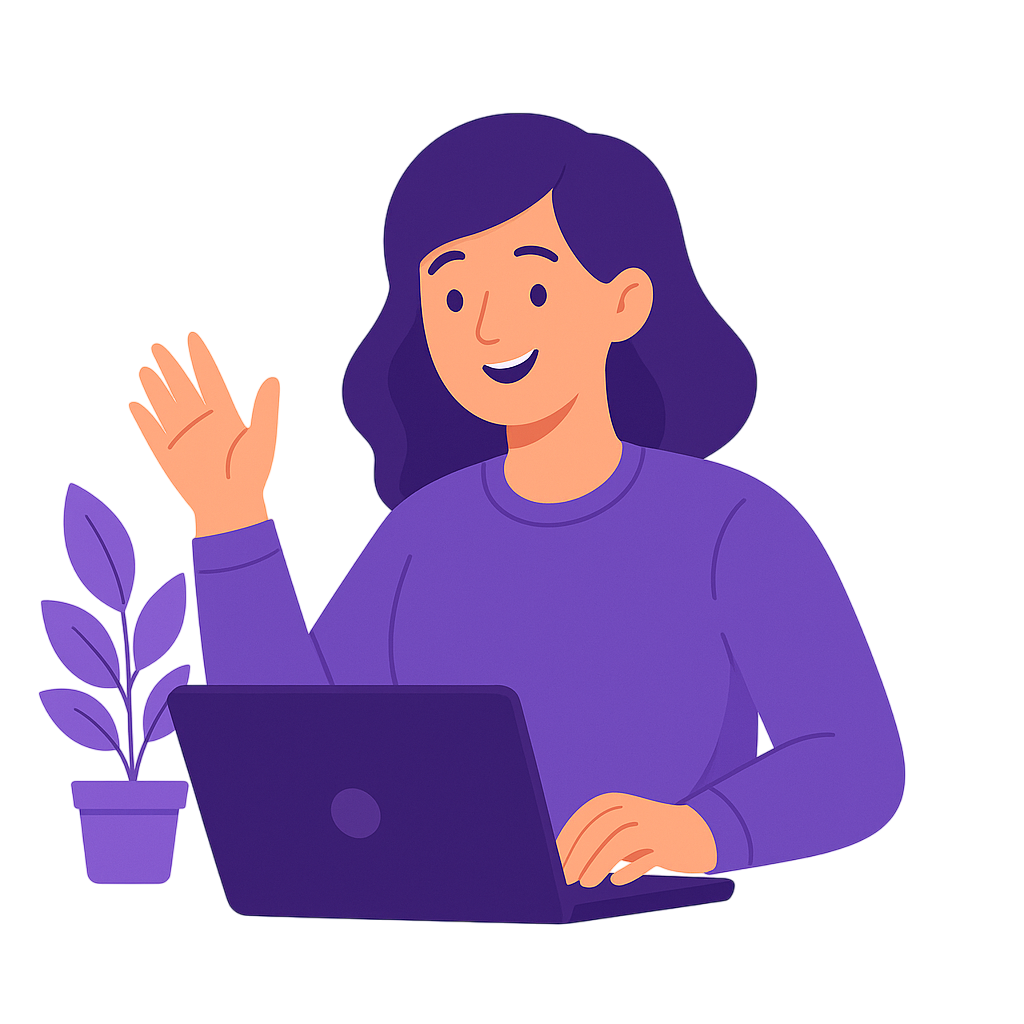
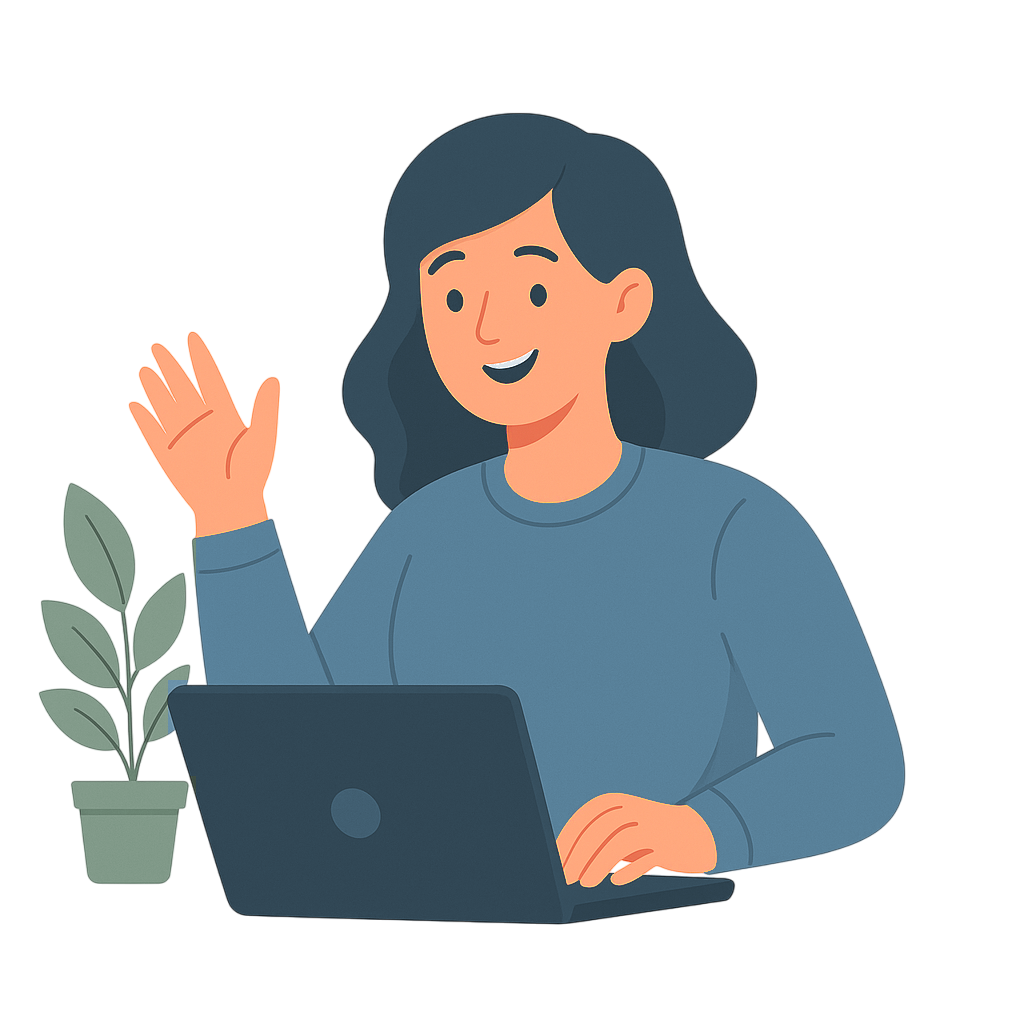
feat(brand): apply new Diariamente identity to landing
Replace the otter logo with the new horizontal logo and symbol, swap
favicon, apple-touch-icon and og.png, move the palette from lilac and
violet to ink, sun, cream, sage, slate and clay, recolor the patient
illustration and rename DiariaMente to Diariamente.

diff --git a/src/styles/global.css b/src/styles/global.css
@@ -4,15 +4,19 @@
   --font-display: "Fraunces Variable", Georgia, serif;
   --font-sans: "Quicksand Variable", system-ui, sans-serif;
 
-  --color-ink: #2e2a35;
-  --color-ink-soft: #5d5768;
-  --color-lila: #cdbff4;
-  --color-lila-soft: #e9e2fc;
-  --color-violet: #6b4fc4;
-  --color-violet-light: #7659c9;
-  --color-violet-deep: #4f3f63;
-  --color-cream: #f7f3fb;
-  --color-line: #e4dcf0;
+  --color-ink: #25282c;
+  --color-ink-light: #464b51;
+  --color-ink-soft: #64625f;
+  --color-cream: #fcf8f2;
+  --color-sand: #f3ede5;
+  --color-line: #ece6de;
+  --color-sol: #f79a6b;
+  --color-sol-light: #ffc48a;
+  --color-sol-soft: #fde8da;
+  --color-salvia: #7e9686;
+  --color-pizarra: #5e8299;
+  --color-pizarra-deep: #456679;
+  --color-arcilla: #e3a792;
 
   --color-coral: #ff8f80;
   --color-coral-light: #ffb3a8;
@@ -70,11 +74,11 @@
   .grid > * { min-width: 0; }
 
   ::selection {
-    background: var(--color-lila);
+    background: var(--color-sol-light);
   }
 
   :focus-visible {
-    outline: 3px solid var(--color-violet);
+    outline: 3px solid var(--color-ink);
     outline-offset: 3px;
   }
 
@@ -122,13 +126,13 @@
   .card {
     background: #fff;
     border-radius: var(--radius-card);
-    box-shadow: 0 1px 2px #2e2a350d, 0 4px 8px -4px #2e2a3526;
+    box-shadow: 0 1px 2px #25282c0d, 0 4px 8px -4px #25282c26;
   }
 
   .btn {
-    --btn-from: var(--color-violet-light);
-    --btn-to: var(--color-violet);
-    --btn-glow: #6b4fc499;
+    --btn-from: var(--color-ink-light);
+    --btn-to: var(--color-ink);
+    --btn-glow: #25282c99;
     --btn-text: #fff;
     display: inline-flex;
     align-items: center;
@@ -163,8 +167,8 @@
 
   .btn-light {
     --btn-from: #ffffff;
-    --btn-to: #f1ecfb;
-    --btn-glow: #6b4fc499;
+    --btn-to: var(--color-sand);
+    --btn-glow: #25282c99;
     --btn-text: var(--color-ink);
   }
 
@@ -225,10 +229,10 @@
     align-items: center;
     gap: 0.5rem;
     min-height: 2.75rem;
-    color: var(--color-violet-deep);
+    color: var(--color-ink);
     font-weight: 700;
     text-decoration: underline;
-    text-decoration-color: #6b4fc44d;
+    text-decoration-color: #f79a6bb3;
     text-underline-offset: 0.3em;
     transition: text-decoration-color var(--duration-quick) var(--ease-smooth-out);
   }
@@ -255,7 +259,7 @@
     border-radius: var(--radius-card);
     transition: background-color var(--duration-fast) var(--ease-smooth-out);
   }
-  .faq-item[open] { background: var(--color-lila-soft); }
+  .faq-item[open] { background: var(--color-sand); }
   .faq-icon { transition: transform var(--duration-fast) var(--ease-smooth-out); }
   .faq-item[open] .faq-answer { animation: arrive var(--duration-fast) var(--ease-smooth-out); }
 
@@ -292,7 +296,7 @@
     height: 3px;
     transform-origin: left;
     transform: scaleX(0);
-    background: linear-gradient(90deg, var(--color-coral), var(--color-sun), var(--color-mint), var(--color-sky), var(--color-violet));
+    background: linear-gradient(90deg, var(--color-coral), var(--color-sun), var(--color-mint), var(--color-sky));
     pointer-events: none;
   }
   .motion .scroll-progress { display: block; }
@@ -310,7 +314,7 @@
 
   @keyframes float {
     50% {
-      transform: translateY(-12px) rotate(-2deg);
+      transform: translateY(-12px);
     }
   }
 

diff --git a/src/scripts/motion.ts b/src/scripts/motion.ts
@@ -229,21 +229,6 @@ const microInteractions = () => {
       };
     });
   }
-
-  const mascot = document.querySelector<HTMLElement>("[data-mascot]");
-  if (mascot) {
-    hover(mascot, () => {
-      animate(mascot, { scale: 1.08, rotate: -8 }, snappy);
-      return () => void animate(mascot, { scale: 1, rotate: 0 }, snappy);
-    });
-    press(mascot, () => {
-      animate(mascot, { scale: 0.88 }, snappy);
-      return () =>
-        void animate(mascot, { scale: [0.88, 1.15, 1], rotate: [0, 360] }, { duration: 0.7, ease: [0.22, 1, 0.36, 1] }).then(
-          () => void animate(mascot, { rotate: 0 }, { duration: 0 }),
-        );
-    });
-  }
 };
 
 if (root.classList.contains("motion")) {

diff --git a/src/pages/api/demo.ts b/src/pages/api/demo.ts
@@ -58,7 +58,7 @@ export const POST: APIRoute = async ({ request }) => {
     from: DEMO_FROM_EMAIL,
     to: DEMO_TO_EMAIL,
     replyTo: parsed.data.email,
-    subject: `Demo DiariaMente · ${parsed.data.clinic}`,
+    subject: `Demo Diariamente · ${parsed.data.clinic}`,
     html,
     text,
   });

diff --git a/src/lib/site.ts b/src/lib/site.ts
@@ -1,5 +1,5 @@
 export const SITE = {
-  name: "DiariaMente",
+  name: "Diariamente",
   url: "https://info.diariamente.es",
   appUrl: "https://diariamente.es",
   loginUrl: "https://diariamente.es/login",

diff --git a/PRODUCT.md b/PRODUCT.md
@@ -1,4 +1,4 @@
-# DiariaMente landing
+# Diariamente landing
 
 ## Register
 
@@ -10,11 +10,11 @@ Psicólogos y responsables de clínicas que valoran una herramienta de seguimien
 
 ## Product Purpose
 
-Presentar DiariaMente y conseguir solicitudes de demo mediante el formulario existente. El precio publicado es 14,99 € al mes por psicólogo, con pacientes ilimitados y acceso gratuito para pacientes.
+Presentar Diariamente y conseguir solicitudes de demo mediante el formulario existente. El precio publicado es 14,99 € al mes por psicólogo, con pacientes ilimitados y acceso gratuito para pacientes.
 
 ## Brand Personality
 
-Cercana, clara y cuidadosa. Conservar la identidad lila, Fraunces, Quicksand, la nutria y las ilustraciones existentes.
+Cercana, clara y cuidadosa: serena y cálida, profesional y fiable. Identidad de marca en `diariamente-marca/` (guía de marca): símbolo de la D con la persona y el sol, logotipo «Diariamente» en Quicksand Bold. Paleta: tinta #25282C, sol #F79A6B, crema #FCF8F2, salvia #7E9686, pizarra #5E8299 y arcilla #E3A792, más los cuatro colores de ánimo de la app (coral, amarillo, verde, azul). Sin ningún tono morado o lila. La nutria está descartada.
 
 ## References and Anti-references
 
